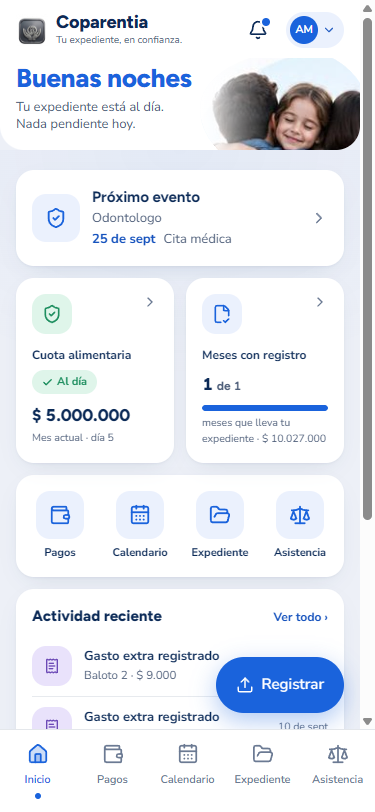
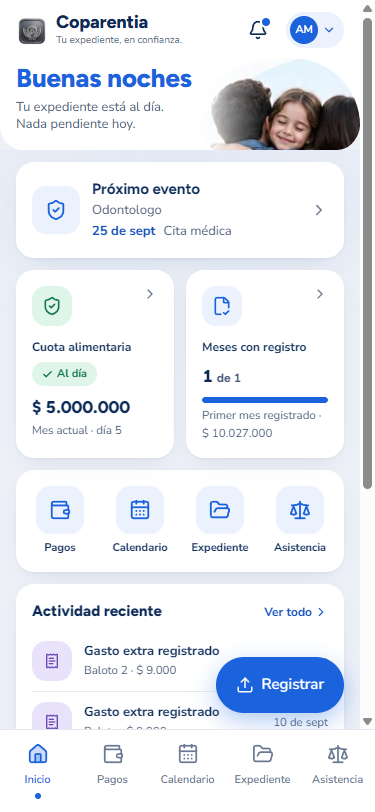
fix: Inicio claro r1 — colchon para el FAB, blob por su curva, pildora AA, captions 11.5px, campana condicional, tap feedback, hora de Colombia en el saludo; FICHA-ARTE con la variante clara del interior

diff --git a/app/(app)/inicio/page.tsx b/app/(app)/inicio/page.tsx
@@ -508,9 +508,9 @@ function Dashboard() {
           marca + saludo con foto, tarjeta de próximo evento, dos cifras con estado, cuatro accesos,
           actividad reciente y banner del Sello. El <PageHeader> con el marcador del tema oscuro
           queda para las demás pantallas hasta que lleguen sus etapas. */}
-      <CabeceraApp />
+      <CabeceraApp aviso={Boolean(proximoEvento)} />
       <SaludoApp linea={lineaSaludo} />
-      <ContenedorApp>
+      <ContenedorApp conFab sinTope>
         {falloCarga ? (
           <ErrorDeCarga onReintentar={() => setIntentoDatos((n) => n + 1)} />
         ) : cargando ? (
@@ -518,7 +518,7 @@ function Dashboard() {
         ) : (
           <>
             {/* PRÓXIMO EVENTO — la tarjeta más alta de la referencia. Sin evento, invita al calendario. */}
-            <Link href="/calendario" className="block [touch-action:manipulation]">
+            <Link href="/calendario" className="block transition-transform duration-100 active:scale-[0.99] [touch-action:manipulation]">
               <Tarjeta className="flex items-center gap-3">
                 <IconoCirculo icon={proximoEvento ? ICONO_EVENTO[proximoEvento.tipo] : CalendarClock} size={22} grande />
                 <div className="min-w-0 flex-1">
@@ -541,7 +541,7 @@ function Dashboard() {
 
             {/* DOS CIFRAS — la cuota del mes con su estado y los meses probados. */}
             <div className="mt-3 grid grid-cols-2 gap-3">
-              <Link href="/pagos" className="block [touch-action:manipulation]">
+              <Link href="/pagos" className="block transition-transform duration-100 active:scale-[0.99] [touch-action:manipulation]">
                 <Tarjeta indice={1} className="h-full">
                   <div className="flex items-start justify-between">
                     <IconoCirculo icon={ShieldCheck} tono={estadoDelMes.tono === 'exito' ? 'exito' : estadoDelMes.tono === 'alerta' ? 'pendiente' : 'accent'} />
@@ -552,12 +552,12 @@ function Dashboard() {
                   <p className="mt-2 text-[17px] font-extrabold tabular-nums text-[var(--text-primary)] [font-family:var(--font-display)]">
                     {titulo ? <NumeroContado valor={titulo.montoMensual} formato={formatoCOP} /> : '—'}
                   </p>
-                  <p className="mt-0.5 text-[10.5px] text-[var(--text-secondary)]">
+                  <p className="mt-0.5 text-[11.5px] text-[var(--text-secondary)]">
                     {titulo ? `Mes actual · día ${titulo.diaPago}` : 'Cuota sin definir'}
                   </p>
                 </Tarjeta>
               </Link>
-              <Link href="/expediente" className="block [touch-action:manipulation]">
+              <Link href="/expediente" className="block transition-transform duration-100 active:scale-[0.99] [touch-action:manipulation]">
                 <Tarjeta indice={2} className="h-full">
                   <div className="flex items-start justify-between">
                     <span className="relative flex shrink-0">
@@ -588,8 +588,9 @@ function Dashboard() {
                       transition={{ duration: reduce ? 0 : 0.7, ease: [0.22, 0.61, 0.36, 1] }}
                     />
                   </div>
-                  <p className="mt-1 text-[10.5px] text-[var(--text-secondary)]">
-                    {metaMeses === 12 ? 'de los últimos 12 meses' : 'meses que lleva tu expediente'} · {formatoCOP(totalRegistrado)}
+                  {/* El primer mes "1 de 1" con barra llena no dice nada: se nombra el hito en su lugar. */}
+                  <p className="mt-1 text-[11.5px] text-[var(--text-secondary)]">
+                    {metaMeses === 1 ? 'Primer mes registrado' : metaMeses === 12 ? 'de los últimos 12 meses' : 'meses que lleva tu expediente'} · {formatoCOP(totalRegistrado)}
                   </p>
                 </Tarjeta>
               </Link>
@@ -601,7 +602,7 @@ function Dashboard() {
             <Tarjeta indice={3} className="mt-3">
               <div className="flex items-center justify-between">
                 <h2 className="text-[15px] font-extrabold text-[var(--text-primary)] [font-family:var(--font-display)]">Actividad reciente</h2>
-                <Link href="/pagos" className="text-[12px] font-bold text-[var(--accent-ink,var(--accent))] [touch-action:manipulation]">Ver todo ›</Link>
+                <Link href="/pagos" className="inline-flex items-center gap-0.5 text-[12px] font-bold text-[var(--accent-ink,var(--accent))] [touch-action:manipulation]">Ver todo<ChevronRight size={14} aria-hidden="true" /></Link>
               </div>
               {ultimosPagos.length === 0 ? (
                 <div className="flex flex-col items-center py-6 text-center">
@@ -620,7 +621,7 @@ function Dashboard() {
                         <p className="truncate text-[13px] font-bold text-[var(--text-primary)]">{p.tipo === 'cuota' ? 'Cuota con Sello de Confianza' : 'Gasto extra registrado'}</p>
                         <p className="truncate text-[11.5px] text-[var(--text-secondary)]">{p.concepto} · {formatoCOP(p.monto)}</p>
                       </div>
-                      <time className="shrink-0 text-right text-[10.5px] leading-tight text-[var(--text-secondary)]">{formatoFechaCorta(p.fecha)}</time>
+                      <time className="shrink-0 text-right text-[11.5px] leading-tight text-[var(--text-secondary)]">{formatoFechaCorta(p.fecha)}</time>
                     </li>
                   ))}
                 </ul>

diff --git a/components/app/ui.tsx b/components/app/ui.tsx
@@ -134,7 +134,7 @@ export function BottomNav() {
             <Link
               key={href}
               href={href}
-              className="flex min-w-[64px] flex-1 flex-col items-center gap-1 pb-1 pt-2.5 text-[11px] font-semibold [touch-action:manipulation]"
+              className="flex min-w-[64px] flex-1 flex-col items-center gap-1 pb-1 pt-2.5 text-[11px] font-semibold transition-transform duration-100 active:scale-95 [touch-action:manipulation]"
               aria-current={activo ? 'page' : undefined}
             >
               {/* Referencia del usuario (2026-09-18): el destino activo va en azul con el ícono
@@ -376,9 +376,9 @@ export function ErrorDeCarga({ onReintentar }: { onReintentar: () => void }) {
    altura fija fuera del área que hace scroll (`app/(app)/layout.tsx`) y el FAB usa `position:
    sticky` en vez de `fixed` — ninguno de los dos se monta ya sobre el contenido, así que no hace
    falta calcular cuánto colchón dejarles. */
-export function ContenedorApp({ children }: { children: ReactNode }) {
+export function ContenedorApp({ children, conFab = false, sinTope = false }: { children: ReactNode; conFab?: boolean; sinTope?: boolean }) {
   return (
-    <div className="relative isolate mx-auto max-w-[520px] px-4 pb-6 pt-[max(20px,env(safe-area-inset-top))]">
+    <div className={`relative isolate mx-auto max-w-[520px] px-4 ${conFab ? 'pb-24' : 'pb-6'} ${sinTope ? 'pt-3' : 'pt-[max(20px,env(safe-area-inset-top))]'}`}>
       {/* LUZ AMBIENTAL — el fondo de la app interna era un color liso en las cuatro secciones, y
           "profundidad" fue el eje que el revisor bajó una y otra vez. Esto no es decoración: es el
           3er nivel de profundidad que FICHA-ARTE declara (base / elevado / hundido) y que aquí
@@ -401,7 +401,7 @@ export function ContenedorApp({ children }: { children: ReactNode }) {
    lema, campana con punto y avatar con iniciales. Vive fuera del padding del contenedor para que
    su fondo blanco toque los bordes, como en la captura. Las iniciales salen del correo de la
    sesión (no hay nombre en el perfil); si no hay sesión aún, muestra un círculo neutro. ── */
-export function CabeceraApp() {
+export function CabeceraApp({ aviso = false }: { aviso?: boolean }) {
   const [iniciales, setIniciales] = useState<string>('');
   useEffect(() => {
     let vigente = true;
@@ -429,7 +429,7 @@ export function CabeceraApp() {
       <div className="flex items-center gap-2">
         <Link href="/calendario" aria-label="Próximos eventos" className="relative flex size-10 items-center justify-center rounded-full text-[var(--text-primary)] [touch-action:manipulation]">
           <Bell size={20} aria-hidden="true" />
-          <span aria-hidden="true" className="absolute right-2 top-2 size-2 rounded-full bg-[var(--accent)] ring-2 ring-[var(--surface)]" />
+          {aviso && <span aria-hidden="true" className="absolute right-2 top-2 size-2 rounded-full bg-[var(--accent)] ring-2 ring-[var(--surface)]" />}
         </Link>
         <Link href="/ajustes" aria-label="Tu cuenta y ajustes" className="flex items-center gap-1 rounded-full bg-[var(--surface-2)] py-1 pl-1 pr-2 [touch-action:manipulation]">
           <span className="flex size-7 items-center justify-center rounded-full bg-[var(--accent)] text-[11px] font-bold text-[var(--on-accent)]">{iniciales || '·'}</span>
@@ -443,11 +443,11 @@ export function CabeceraApp() {
 /* ── <SaludoApp> — saludo grande en azul con la foto del usuario (su referencia) en forma orgánica.
    El saludo cambia por hora del día (no hay nombre en el perfil; "Hola, {correo}" sonaba a spam). ── */
 export function SaludoApp({ linea }: { linea: string }) {
-  const h = new Date().getHours();
+  const h = Number(new Intl.DateTimeFormat('es-CO', { hour: 'numeric', hour12: false, timeZone: 'America/Bogota' }).format(new Date()));
   const saludo = h < 12 ? 'Buenos días' : h < 19 ? 'Buenas tardes' : 'Buenas noches';
   return (
     <section className="relative overflow-hidden rounded-b-[24px] bg-[var(--surface)] px-4 pb-4 pt-1">
-      <div className="pointer-events-none absolute -right-3 -top-2 h-[122px] w-[172px] overflow-hidden blob" aria-hidden="true">
+      <div className="pointer-events-none absolute right-0 top-0 h-[112px] w-[164px] overflow-hidden blob" aria-hidden="true">
         <img src="/fotos/app-familia-abrazo.jpg" alt="" className="h-full w-full object-cover object-[55%_40%]" />
         <span className="absolute inset-0" style={{ background: 'linear-gradient(90deg, var(--surface) 0%, transparent 40%)' }} />
       </div>
@@ -462,7 +462,7 @@ export function AccesosRapidos({ items }: { items: { href: string; label: string
   return (
     <nav aria-label="Accesos rápidos" className="mt-3 grid grid-cols-4 gap-2 rounded-[var(--radius-card)] bg-[var(--surface)] px-2 py-3 shadow-[var(--shadow-1)]">
       {items.slice(0, 4).map(({ href, label, icon }) => (
-        <Link key={href} href={href} className="flex flex-col items-center gap-1.5 py-1 text-[11px] font-bold text-[var(--text-primary)] [touch-action:manipulation]">
+        <Link key={href} href={href} className="flex flex-col items-center gap-1.5 py-1 text-[11px] font-bold text-[var(--text-primary)] transition-transform duration-100 active:scale-95 [touch-action:manipulation]">
           <IconoCirculo icon={icon} size={22} grande />
           {label}
         </Link>

diff --git a/components/landing/tokens-app-claro.css b/components/landing/tokens-app-claro.css
@@ -32,7 +32,7 @@
   --accent-underline: transparent;
 
   /* ── SEMÁNTICOS (de la referencia): verde Pagada, ámbar Pendiente, morado informativo, rojo ── */
-  --status-success: #1f8f60;      /* 4.6:1 sobre blanco (píldora sobre #DFF5EA: 4.2:1 en 11px bold) */
+  --status-success: #157a4f;      /* 5.9:1 sobre blanco · 4.6:1 sobre #DFF5EA (píldora 11px bold) */
   --status-success-bg: #dff5ea;
   --status-warning: #b9731a;      /* 4.5:1 sobre blanco */
   --status-warning-bg: #fdf1dc;

diff --git a/docs/revisiones/pantalla-principal-veredicto.md b/docs/revisiones/pantalla-principal-veredicto.md
@@ -1,14 +1,16 @@
-# VEREDICTO revisor-visual — Pantalla principal (Inicio)
-Fecha: 2026-09-10 00:00
-Screenshot: docs/revisiones/inicio-375.png
+# VEREDICTO revisor-visual — pantalla-principal (Inicio)
+Variante: clara r1 (arranca la variante clara del interior — commit c3a50a4)
+Fecha: 2026-09-17 21:40
+Screenshot: docs/revisiones/pantalla-principal-375.png
 Usabilidad: 28/40
-Craft: 14/20
+Craft: 12/20
 Copy (si vende): N-A
-Fidelidad (si hubo referencia): N-A
+Fidelidad (si hubo referencia): FIEL
 Veredicto: NO LISTA
 Top defectos:
-1. Modal "Nuevo registro" (el formulario que abre el botón de Inicio) — el nav inferior TAPA el CTA "Guardar registro": `ContenedorApp` usa `relative isolate` (components/app/ui.tsx:354) y crea un contexto de apilamiento, así que el z-30 del modal, el z-40 de `VisorImagen` y el z-40 de `SelloConfianza` quedan por debajo del `<BottomNav>` z-20 del layout → fix: montar modal/visor/sello con `createPortal(document.body)` (o quitar `isolate` y aislar solo el halo).
-2. Inicio — el `<BotonFlotante>` SIGUE montado sobre la tercera tarjeta: `Dashboard()` renderiza `<ContenedorApp>` sin la prop nueva (app/(app)/inicio/page.tsx:482); `conBotonFlotante` solo se pasa en la rama de error (línea 64), que no tiene FAB → fix: `<ContenedorApp conBotonFlotante>` en `Dashboard`.
-3. Modal de registro — CTA muerto por defecto (`disabled={!archivo || !monto || !concepto.trim()}`, pagos/page.tsx:457) al 40% de opacidad y sin decir qué falta → fix: habilitado siempre, validar al click con hint bajo el campo incompleto.
-4. Pagos, error de fila — texto sin tildes ("conexion", "intentalo", pagos/page.tsx:91) frente al resto de la app con tildes; `errorArchivo` sin `role="alert"` (línea 450) y `obtenerTitulo()` del modal sin `.catch` (línea 281) → fix: corregir el copy, añadir role y catch.
-5. Inicio — el vacío de "Últimos movimientos" enseña pero no ofrece salida (sin CTA, inicio/page.tsx:604) y el escalonado no es cascada (índices 0,1,2 en las stats y otra vez 0,1,2 en la lista); la flecha de Ajustes vuelve siempre a /expediente → fix: CTA en el vacío, índice continuo, y back que respete el origen.
+1. [Actividad reciente / esquina inferior derecha] El FAB "Registrar" (BotonFlotante, sticky bottom-4) tapa la 2ª y 3ª fila de la lista (fecha "10 de sept" y el ícono quedan debajo del botón); ContenedorApp solo deja pb-6 → dar pb-24 al contenedor cuando hay FAB (o mover el FAB a la cabecera de Actividad como acción inline) para que ninguna fila quede oculta.
+2. [Cabecera] El isotipo (/logo-isotipo.png, 32px) se ve como un cuadrado gris borroso, no como el logo azul de la referencia; y la foto del saludo pixelada con corte recto arriba/derecha → reemplazar el asset por el isotipo real (SVG/PNG 2x) y la foto por el original; desplazar el blob (-right-3 -top-2) para que el recorte lo haga la forma orgánica, no el borde.
+3. [Tarjeta Cuota alimentaria / píldora "Al día"] #1F8F60 sobre #DFF5EA mide 3.6:1 (no 4.2 como dice tokens-app-claro.css) en 11px bold → falla AA; subir a #157A4F (≈4.6:1) o usar --status-success como texto sobre fondo blanco.
+4. [Tres captions] text-[10.5px] en "Mes actual · día 5", "meses que lleva tu expediente · $ 10.027.000" y las fechas de la lista: por debajo del mínimo 11px del SO y 8 tamaños tipográficos en pantalla (26/18/17/15/13/12/11/10.5) → subir a 11.5-12px y consolidar a 4 tamaños.
+5. [Cabecera / campana] Punto azul hardcodeado (ui.tsx:432) sin nada detrás: sugiere avisos nuevos y la campana solo lleva a /calendario; y "Ver todo ›" usa un carácter de texto donde toda la pantalla usa ChevronRight de Lucide → mostrar el punto solo si hay eventos en las próximas 48h; usar el mismo ícono.
+Notas: FICHA-ARTE.md aún dice que el interior conserva el kit oscuro (líneas 84-85) — documentar la variante clara del interior con tokens-app-claro.css como fuente de verdad. Pagos/Calendario/Expediente/Asistencia siguen en tema oscuro: al tocar un acceso la app cambia de modo (h4).

diff --git a/ESTADO.md b/ESTADO.md
@@ -2327,6 +2327,15 @@ justificación: **veredicto:landing** sigue LISTA (37/40·17/20·18/20), el gate
 por comparar mtime de CUALQUIER `.tsx` del proyecto; **veredicto:onboarding** y **veredicto:paywall**
 siguen NO LISTA por el techo estructural ya documentado, sin tocar en esta sesión.
 
+### Estado de los gates — INTERIOR CLARO etapa 1, revisor de pantalla-principal en curso (2026-09-18, commit c3a50a4)
+**veredicto:pantalla-principal**: Inicio claro r1 = 28/40 · 12/20, FIEL (0/6). Sus 5 defectos se corrigieron
+(colchón para el FAB, blob recortado por su curva, verde de píldora 4.6:1, captions 11.5px + texto del primer
+mes, campana con punto solo si hay evento, chevron en "Ver todo", tap en accesos/nav/tarjetas, saludo en
+hora de Colombia). El isotipo gris queda como decisión de marca pendiente del usuario. Se pospone la r2
+hasta cerrar las etapas 2-3 (misma regla de una ronda por etapa). **veredicto:landing** (aprobada por el usuario,
+techo documentado abajo), **veredicto:onboarding** y **veredicto:paywall** (techo documentado; siguen
+oscuros, fuera del alcance pedido) sin cambios.
+
 ### Estado de los 3 gates de veredicto — LANDING CLARA CERRADA en techo documentado (2026-09-18)
 **veredicto:landing** (variante clara, 4 rondas): r1 33·14·17 → r2 33·15·17 → r3 33·16·17 → r4 31·16·16,
 FIEL a la opción C elegida. Craft PASA (16). Usabilidad 31-33 en cuatro rondas: mismo patrón de techo

diff --git a/FICHA-ARTE.md b/FICHA-ARTE.md
@@ -81,8 +81,14 @@
   correctamente con punto y coma).
 
 ## Variante CLARA de la PÁGINA DE VENTAS (decisión del usuario, 2026-09-17 noche)
-- Alcance: SOLO la landing (app/page.tsx + components/landing/*). El interior de la app, el onboarding,
-  el paywall y el login conservan el brand kit oscuro de arriba SIN cambios (orden explícita del usuario).
+- Alcance inicial: SOLO la landing. ACTUALIZACIÓN 2026-09-18: el usuario aprobó la landing clara y pidió
+  llevar el estilo AL INTERIOR DE LA APP con 4 capturas de referencia (docs/referencias/ref-1..4) →
+  réplica fiel de Inicio aprobada → el interior (Inicio, Pagos, Calendario, Expediente, Asistencia,
+  Ajustes) pasa a CLARO con tokens-app-claro.css (valores MEDIDOS en ref-1: bg #EDF0F7, tarjetas #FFF,
+  chips #EBF1FD, azul #1A63DC, marino #0B2A57, verde #157A4F/#DFF5EA, morado #6C4AB6/#E9E2FB, radios
+  18/14/999, Figtree + Nunito Sans). Onboarding, paywall y /entrar siguen oscuros hasta que el usuario
+  pida esa etapa. Pendiente de marca: el isotipo actual es gris metálico (se ve apagado sobre claro);
+  la referencia lleva un logo azul — decisión del usuario si se rediseña.
 - Referencia PARCIAL del usuario: capturas de 2houses.com/es, niddoapp.com/es y ourfamilywizard.com →
   fondo claro, fotos reales de familias, capturas de la app flotando, azul Coparentia en sectores,
   mensaje "gastos controlados + mente en calma", tono empático.
